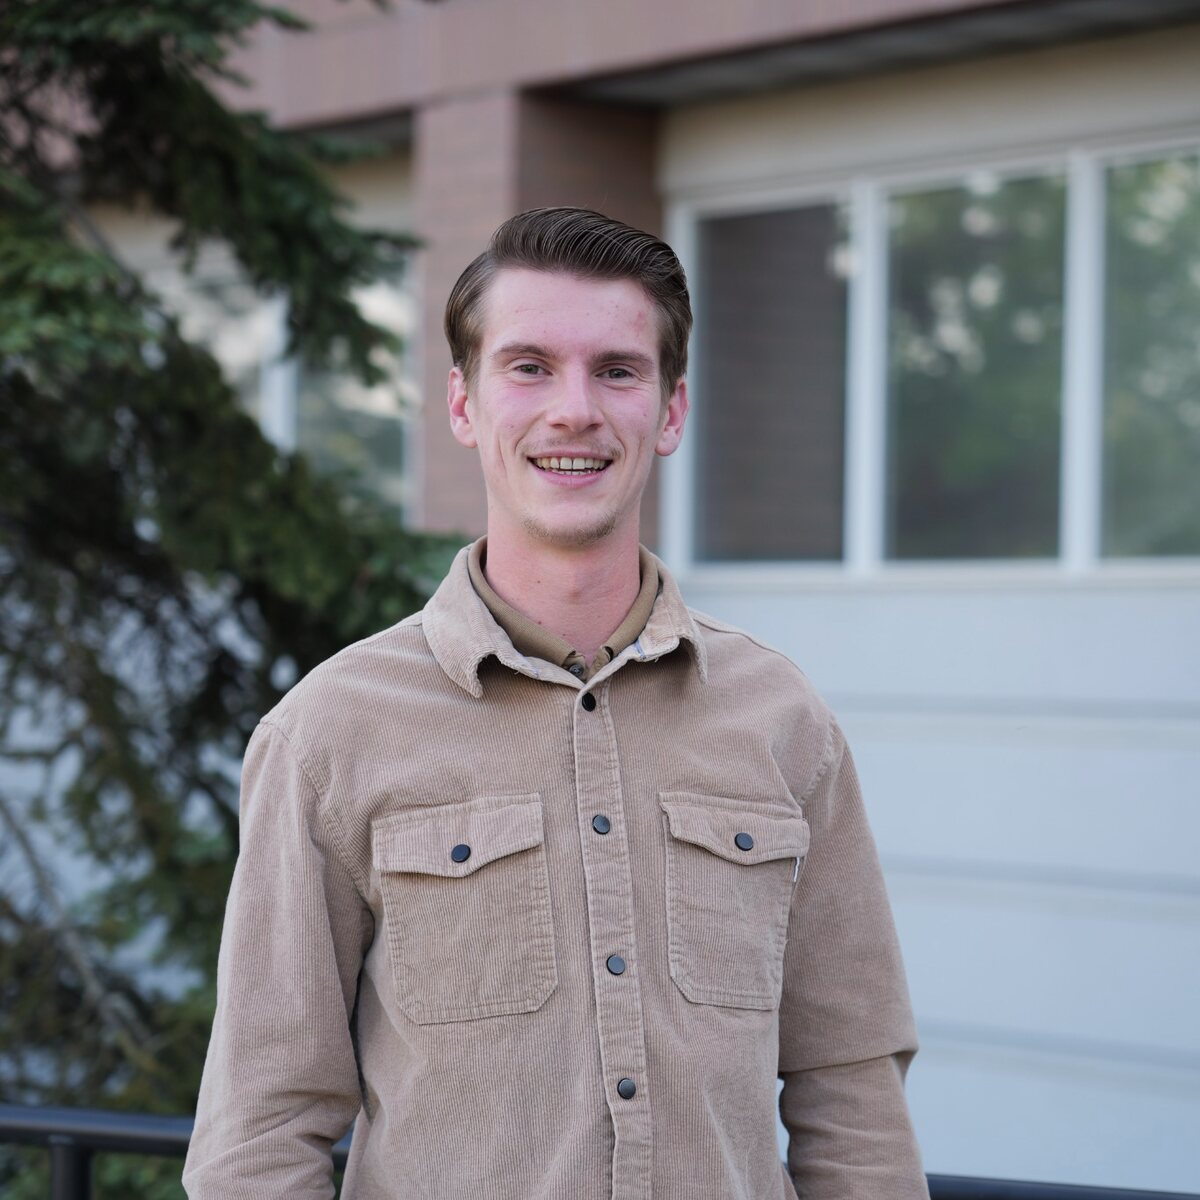
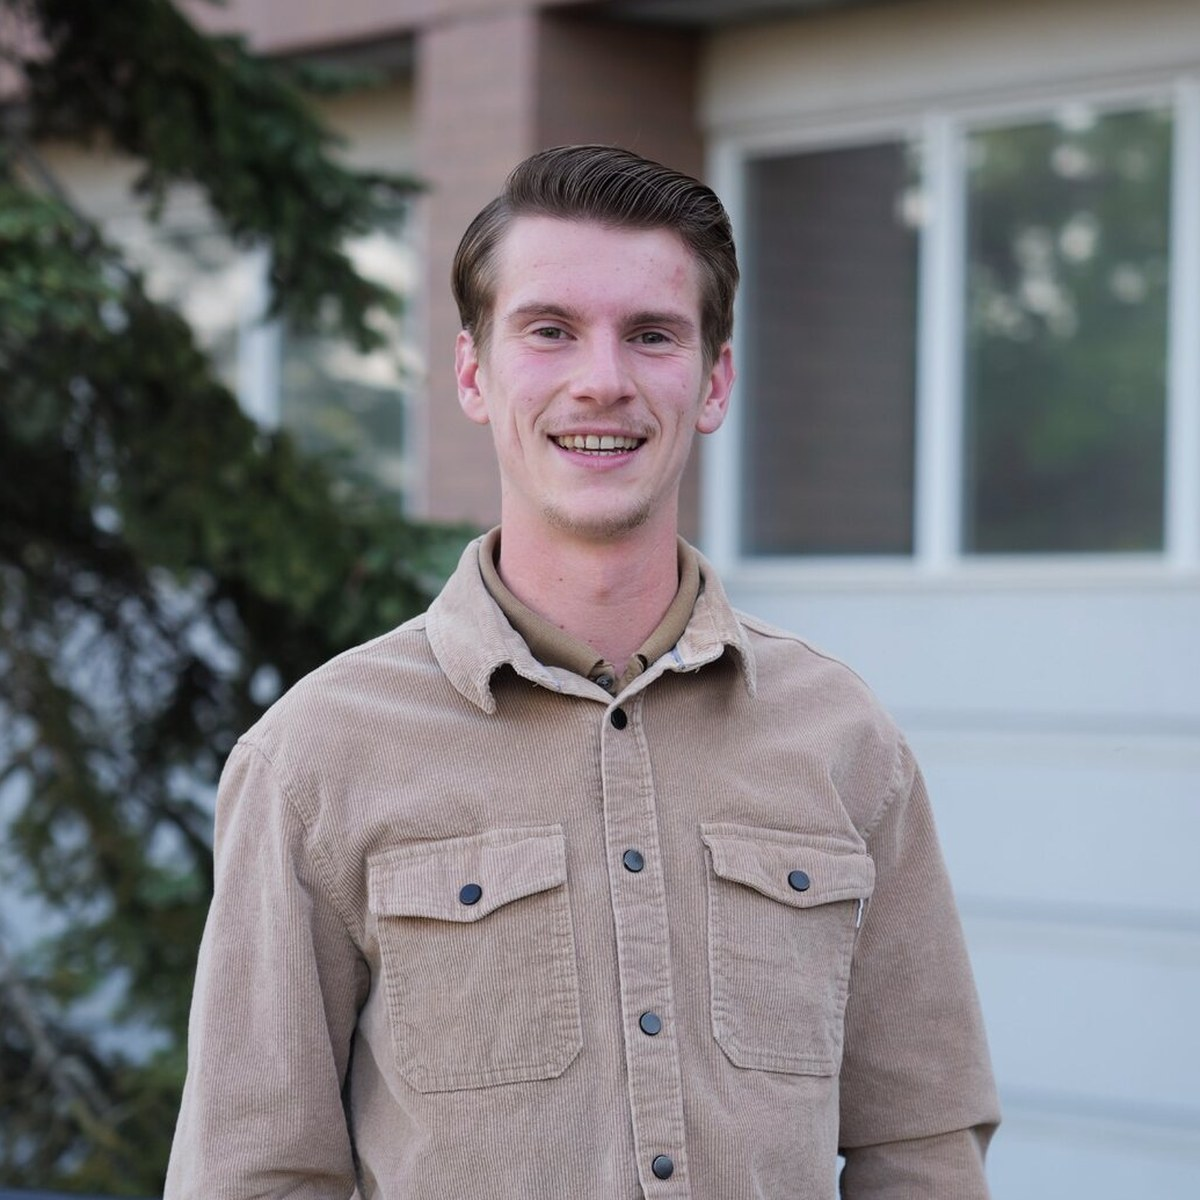
Match portrait framing: zoom Luke and Ryan so heads line up with the others
Luke's head was smaller and lower than Jordan's and Tiffany's; recropped and
scaled so head height and top edge match. Ryan's was a full-body shot, recropped
from the original at a head size matching the rest. Cache-bust both.

Claude-Session: https://claude.ai/code/session_01JHmFhQRwirUFL8NaHW2tUw

diff --git a/pages/teachers.html b/pages/teachers.html
@@ -268,7 +268,7 @@
 <p class="tp-teaches">Elementary Language Arts, Math, Science, Social Studies, P.E., Social-Emotional Learning, Arts &amp; Crafts, Field Trips &amp; Events</p>
 <span class="tp-open">See their week ↓</span></button></li><li class="tp-card" data-grades="home hs jh ms o-elem" data-search="caitlin relvas teacher english, literature, social studies, and dance. creative writing critical thinking &amp; debate dance english literature soc. studies" data-first="Caitlin"><button class="tp-face" data-who="CA"><div class="tp-portrait">
 <img src="../assets/images/teachers/caitlin-relvas.jpg?v=20260819c" alt="Caitlin Relvas" loading="lazy">
-</div><h3 class="tp-name">Caitlin Relvas</h3><p class="tp-role">Teacher</p><p class="tp-line">English, literature, social studies, and dance.</p><p class="tp-contact">Email: <a href="mailto:caitlin@rivertech.me">caitlin@rivertech.me</a></p><p class="tp-teaches">Creative Writing, Critical Thinking &amp; Debate, Dance, English, Literature, Soc. Studies</p><span class="tp-open">See their week ↓</span></button></li><li class="tp-card" data-grades="home hs jh ms o-elem y-elem" data-search="jordan ezell technology director coding, a.i., robotics, and science. a.i. &amp; machine learning chemistry coding coding / ai math personal finance &amp; family life physics robotics science year book" data-first="Jordan"><button class="tp-face" data-who="JO"><div class="tp-portrait"><img src="../assets/images/teachers/2026-27/jordan.jpg" alt="Jordan Ezell" loading="lazy"></div><h3 class="tp-name">Jordan Ezell</h3><p class="tp-role">Technology Director</p><p class="tp-line">Coding, A.I., robotics, and science.</p><p class="tp-contact">Email: <a href="mailto:jordan@rivertech.me">jordan@rivertech.me</a></p><p class="tp-teaches">A.I. &amp; Machine Learning, Chemistry, Coding, Coding / AI, Math, Personal Finance &amp; Family Life…</p><span class="tp-open">See their week ↓</span></button></li><li class="tp-card" data-grades="home hs jh ms o-elem y-elem" data-search="luke hegelund music & media instruments, filmmaking, robotics, and coding. bible coding drill english film making filmmaking math money p.e. at the park or library robotics study hall ukulele" data-first="Luke"><button class="tp-face" data-who="LU"><div class="tp-portrait"><img src="../assets/images/teachers/2026-27/luke.jpg" alt="Luke Hegelund" loading="lazy"></div><h3 class="tp-name">Luke Hegelund</h3><p class="tp-role">Music & Media</p><p class="tp-line">Instruments, filmmaking, robotics, and coding.</p><p class="tp-contact">Email: <a href="mailto:luke@rivertech.me">luke@rivertech.me</a></p><p class="tp-teaches">Bible, Coding, Drill, English, Film Making, Filmmaking…</p><span class="tp-open">See their week ↓</span></button></li><li class="tp-card" data-grades="home hs jh ms o-elem y-elem" data-search="tiffany young elementary teacher full-time elementary teacher. bible/worship/prayer english fine art fine arts free play games math math/english nutrition &amp; health p.e. at the park or library performing arts production science sketchbook pro soc. studies" data-first="Tiffany"><button class="tp-face" data-who="TI"><div class="tp-portrait"><img src="../assets/images/teachers/2026-27/tiffany.jpg" alt="Tiffany Young" loading="lazy"></div><h3 class="tp-name">Tiffany Young</h3><p class="tp-role">Elementary Teacher</p><p class="tp-line">Full-time Elementary teacher.</p><p class="tp-teaches">Bible/Worship/Prayer, English, Fine Art, Fine Arts, Free Play, Games…</p><p class="tp-contact">Email: <a href="mailto:tiffany@rivertech.me">tiffany@rivertech.me</a></p><span class="tp-open">See their week ↓</span></button></li><li class="tp-card" data-grades="home hs jh ms o-elem y-elem" data-search="charlotte tebow teacher assistant performing arts and musical direction. &#8220;aladdin&#8221; &amp; christmas concert coding digital arts drawing math performing arts production &#8220;peter &amp; alice &mdash; the way home&#8221;" data-first="Charlotte"><button class="tp-face" data-who="CH"><div class="tp-portrait tp-pending"><span>portrait coming</span></div><h3 class="tp-name">Charlotte Tebow</h3><p class="tp-role">Teacher Assistant</p><p class="tp-line">Performing arts and musical direction.</p><p class="tp-teaches">&#8220;Aladdin&#8221; &amp; Christmas Concert, Coding, Digital Arts, Drawing, Math, Performing Arts Production…</p><span class="tp-open">See their week ↓</span></button></li><li class="tp-card" data-grades="home hs jh" data-search="kirsten decker teacher fridays &mdash; english, math, geography, and bible. bible big picture geography english film making" data-first="Kirsten"><button class="tp-face" data-who="KI"><div class="tp-portrait"><img src="../assets/images/teachers/2026-27/kirsten.jpg" alt="Kirsten Decker" loading="lazy"></div><h3 class="tp-name">Kirsten Decker</h3><p class="tp-role">Teacher</p><p class="tp-line">Fridays &mdash; English, math, geography, and Bible.</p><p class="tp-teaches">Bible, Big Picture Geography, English, Film Making</p><p class="tp-contact">Email: <a href="mailto:kirsten@rivertech.me">kirsten@rivertech.me</a></p><span class="tp-open">See their week ↓</span></button></li><li class="tp-card" data-grades="home o-elem y-elem" data-search="emily allison classroom assistant math, robotics, and arts. coding crafts drawing english fine arts math nutrition &amp; health robotics" data-first="Emily"><button class="tp-face" data-who="EM"><div class="tp-portrait"><img src="../assets/images/teachers/2026-27/emily.jpg" alt="Emily Allison" loading="lazy"></div><h3 class="tp-name">Emily Allison</h3><p class="tp-role">Classroom Assistant</p><p class="tp-line">Math, robotics, and arts.</p><p class="tp-teaches">Coding, Crafts, Drawing, English, Fine Arts, Math…</p><p class="tp-contact">Email: <a href="mailto:emily@rivertech.me">emily@rivertech.me</a></p><span class="tp-open">See their week ↓</span></button></li><li class="tp-card" data-grades="hs jh" data-search="phil munts teacher python and robotics. python robotics" data-first="Phil"><button class="tp-face" data-who="PH"><div class="tp-portrait"><img src="../assets/images/teachers/phil-munts.jpg" alt="Phil Munts" loading="lazy"></div><h3 class="tp-name">Phil Munts</h3><p class="tp-role">Teacher</p><p class="tp-line">Python and robotics.</p><p class="tp-teaches">Python, Robotics</p><p class="tp-contact">Email: <a href="mailto:phil@munts.net">phil@munts.net</a></p><span class="tp-open">See their week ↓</span></button></li><li class="tp-card" data-grades="hs jh ms o-elem y-elem" data-search="cristina maness spanish spanish. spanish" data-first="Cristina"><button class="tp-face" data-who="CR"><div class="tp-portrait"><img src="../assets/images/teachers/2026-27/cris-maness.jpg?v=20260825" alt="Cristina Maness" loading="lazy"></div><h3 class="tp-name">Cristina Maness</h3><p class="tp-role">Spanish</p><p class="tp-line">Spanish.</p><p class="tp-teaches">Spanish</p><span class="tp-open">See their week ↓</span></button></li><li class="tp-card" data-grades="hs" data-search="ryan killackey filmmaking high-school filmmaking. filmmaking" data-first="Ryan"><button class="tp-face" data-who="RY"><div class="tp-portrait"><img src="../assets/images/teachers/2026-27/ryan.jpg?v=20260825" alt="Ryan Killackey" loading="lazy"></div><h3 class="tp-name">Ryan Killackey</h3><p class="tp-role">Filmmaking</p><p class="tp-line">High-school filmmaking.</p><p class="tp-teaches">Filmmaking</p><span class="tp-open">See their week ↓</span></button></li><li class="tp-card" data-grades="hs" data-search="penny burciaga operations &amp; leadership teaches leadership mindset and organizational design &amp; management. leadership mindset organizational design &amp; management" data-first="Penny"><button class="tp-face" data-who="PE"><div class="tp-portrait"><img src="../assets/images/teachers/2026-27/penny.jpg?v=20260825" alt="Penny Burciaga" loading="lazy"></div><h3 class="tp-name">Penny Burciaga</h3><p class="tp-role">Operations &amp; Leadership</p><p class="tp-line">Teaches Leadership Mindset and Organizational Design &amp; Management.</p><p class="tp-teaches">Leadership Mindset, Organizational Design &amp; Management</p><p class="tp-contact">Email: <a href="mailto:penny@rivertech.me">penny@rivertech.me</a></p><span class="tp-open">See their week ↓</span></button></li><li class="tp-card" data-grades="home" data-search="angie costumes costumes for both productions. costumes for &ldquo;aladdin&rdquo; &amp; christmas concert costumes for &ldquo;peter &amp; alice&rdquo;, talent show &amp; summer concert" data-first="Angie"><button class="tp-face" data-who="AN"><div class="tp-portrait tp-pending"><span>portrait coming</span></div><h3 class="tp-name">Angie</h3><p class="tp-role">Costumes</p><p class="tp-line">Costumes for both productions.</p><p class="tp-teaches">Costumes for &ldquo;Aladdin&rdquo; &amp; Christmas Concert, Costumes for &ldquo;Peter &amp; Alice&rdquo;, Talent Show &amp; Summer Concert</p><span class="tp-open">See their week ↓</span></button></li><li class="tp-card" data-grades="home" data-search="kara mcarthur props props for both productions. props for &ldquo;aladdin&rdquo; &amp; christmas concert props for &ldquo;peter &amp; alice&rdquo;, talent show &amp; summer concert" data-first="Kara"><button class="tp-face" data-who="KA"><div class="tp-portrait tp-pending"><span>portrait coming</span></div><h3 class="tp-name">Kara McArthur</h3><p class="tp-role">Props</p><p class="tp-line">Props for both productions.</p><p class="tp-teaches">Props for &ldquo;Aladdin&rdquo; &amp; Christmas Concert, Props for &ldquo;Peter &amp; Alice&rdquo;, Talent Show &amp; Summer Concert</p><span class="tp-open">See their week ↓</span></button></li><li class="tp-card" data-grades="" data-search="brooke donnelly executive assistant the first person you will hear back from when you write to the school." data-first="Brooke"><button class="tp-face" data-who="BR"><div class="tp-portrait"><img src="../assets/images/teachers/2026-27/brooke-donnelly.png?v=20260820" class="tp-brooke" alt="Brooke Donnelly" loading="lazy"></div><h3 class="tp-name">Brooke Donnelly</h3><p class="tp-role">Executive Assistant</p><div class="tp-line"><p>Brooke Donnelly brings a heart for people, education, organization, and movement to her role at River Tech. Her professional background spans operations, management, administration, and treasury, with experience in both the healthcare industry and public education. She has also been a homeschool educator and understands firsthand the many different ways children learn, grow, and thrive.</p><p>Outside of River Tech, Brooke is a CrossFit coach at CrossFit CDA and Wildland CrossFit and has a deep love for physical education, nutrition, and creating a lifelong relationship with movement. She lives in beautiful downtown Coeur d&rsquo;Alene with her husband, Jon, their 13-year-old son, Cason, and their newest little addition, Andrew. Together, they love the outdoors, sports, music and the arts, baking, and an active life in North Idaho.</p><p>Most importantly, Brooke loves Jesus and strives to keep her faith at the center of her family, work, and the way she serves others. She wholeheartedly supports River Tech&rsquo;s mission and is incredibly grateful for the opportunity to be part of a school community where faith, creativity, education, and preparing children for the future come together.</p><p><em>&ldquo;I can do all things through Christ who strengthens me.&rdquo; &mdash; Philippians 4:13</em></p></div><p class="tp-contact">Email: <a href="mailto:brooke@rivertech.me">brooke@rivertech.me</a></p></button></li></ul>
+</div><h3 class="tp-name">Caitlin Relvas</h3><p class="tp-role">Teacher</p><p class="tp-line">English, literature, social studies, and dance.</p><p class="tp-contact">Email: <a href="mailto:caitlin@rivertech.me">caitlin@rivertech.me</a></p><p class="tp-teaches">Creative Writing, Critical Thinking &amp; Debate, Dance, English, Literature, Soc. Studies</p><span class="tp-open">See their week ↓</span></button></li><li class="tp-card" data-grades="home hs jh ms o-elem y-elem" data-search="jordan ezell technology director coding, a.i., robotics, and science. a.i. &amp; machine learning chemistry coding coding / ai math personal finance &amp; family life physics robotics science year book" data-first="Jordan"><button class="tp-face" data-who="JO"><div class="tp-portrait"><img src="../assets/images/teachers/2026-27/jordan.jpg" alt="Jordan Ezell" loading="lazy"></div><h3 class="tp-name">Jordan Ezell</h3><p class="tp-role">Technology Director</p><p class="tp-line">Coding, A.I., robotics, and science.</p><p class="tp-contact">Email: <a href="mailto:jordan@rivertech.me">jordan@rivertech.me</a></p><p class="tp-teaches">A.I. &amp; Machine Learning, Chemistry, Coding, Coding / AI, Math, Personal Finance &amp; Family Life…</p><span class="tp-open">See their week ↓</span></button></li><li class="tp-card" data-grades="home hs jh ms o-elem y-elem" data-search="luke hegelund music & media instruments, filmmaking, robotics, and coding. bible coding drill english film making filmmaking math money p.e. at the park or library robotics study hall ukulele" data-first="Luke"><button class="tp-face" data-who="LU"><div class="tp-portrait"><img src="../assets/images/teachers/2026-27/luke.jpg?v=20260825b" alt="Luke Hegelund" loading="lazy"></div><h3 class="tp-name">Luke Hegelund</h3><p class="tp-role">Music & Media</p><p class="tp-line">Instruments, filmmaking, robotics, and coding.</p><p class="tp-contact">Email: <a href="mailto:luke@rivertech.me">luke@rivertech.me</a></p><p class="tp-teaches">Bible, Coding, Drill, English, Film Making, Filmmaking…</p><span class="tp-open">See their week ↓</span></button></li><li class="tp-card" data-grades="home hs jh ms o-elem y-elem" data-search="tiffany young elementary teacher full-time elementary teacher. bible/worship/prayer english fine art fine arts free play games math math/english nutrition &amp; health p.e. at the park or library performing arts production science sketchbook pro soc. studies" data-first="Tiffany"><button class="tp-face" data-who="TI"><div class="tp-portrait"><img src="../assets/images/teachers/2026-27/tiffany.jpg" alt="Tiffany Young" loading="lazy"></div><h3 class="tp-name">Tiffany Young</h3><p class="tp-role">Elementary Teacher</p><p class="tp-line">Full-time Elementary teacher.</p><p class="tp-teaches">Bible/Worship/Prayer, English, Fine Art, Fine Arts, Free Play, Games…</p><p class="tp-contact">Email: <a href="mailto:tiffany@rivertech.me">tiffany@rivertech.me</a></p><span class="tp-open">See their week ↓</span></button></li><li class="tp-card" data-grades="home hs jh ms o-elem y-elem" data-search="charlotte tebow teacher assistant performing arts and musical direction. &#8220;aladdin&#8221; &amp; christmas concert coding digital arts drawing math performing arts production &#8220;peter &amp; alice &mdash; the way home&#8221;" data-first="Charlotte"><button class="tp-face" data-who="CH"><div class="tp-portrait tp-pending"><span>portrait coming</span></div><h3 class="tp-name">Charlotte Tebow</h3><p class="tp-role">Teacher Assistant</p><p class="tp-line">Performing arts and musical direction.</p><p class="tp-teaches">&#8220;Aladdin&#8221; &amp; Christmas Concert, Coding, Digital Arts, Drawing, Math, Performing Arts Production…</p><span class="tp-open">See their week ↓</span></button></li><li class="tp-card" data-grades="home hs jh" data-search="kirsten decker teacher fridays &mdash; english, math, geography, and bible. bible big picture geography english film making" data-first="Kirsten"><button class="tp-face" data-who="KI"><div class="tp-portrait"><img src="../assets/images/teachers/2026-27/kirsten.jpg" alt="Kirsten Decker" loading="lazy"></div><h3 class="tp-name">Kirsten Decker</h3><p class="tp-role">Teacher</p><p class="tp-line">Fridays &mdash; English, math, geography, and Bible.</p><p class="tp-teaches">Bible, Big Picture Geography, English, Film Making</p><p class="tp-contact">Email: <a href="mailto:kirsten@rivertech.me">kirsten@rivertech.me</a></p><span class="tp-open">See their week ↓</span></button></li><li class="tp-card" data-grades="home o-elem y-elem" data-search="emily allison classroom assistant math, robotics, and arts. coding crafts drawing english fine arts math nutrition &amp; health robotics" data-first="Emily"><button class="tp-face" data-who="EM"><div class="tp-portrait"><img src="../assets/images/teachers/2026-27/emily.jpg" alt="Emily Allison" loading="lazy"></div><h3 class="tp-name">Emily Allison</h3><p class="tp-role">Classroom Assistant</p><p class="tp-line">Math, robotics, and arts.</p><p class="tp-teaches">Coding, Crafts, Drawing, English, Fine Arts, Math…</p><p class="tp-contact">Email: <a href="mailto:emily@rivertech.me">emily@rivertech.me</a></p><span class="tp-open">See their week ↓</span></button></li><li class="tp-card" data-grades="hs jh" data-search="phil munts teacher python and robotics. python robotics" data-first="Phil"><button class="tp-face" data-who="PH"><div class="tp-portrait"><img src="../assets/images/teachers/phil-munts.jpg" alt="Phil Munts" loading="lazy"></div><h3 class="tp-name">Phil Munts</h3><p class="tp-role">Teacher</p><p class="tp-line">Python and robotics.</p><p class="tp-teaches">Python, Robotics</p><p class="tp-contact">Email: <a href="mailto:phil@munts.net">phil@munts.net</a></p><span class="tp-open">See their week ↓</span></button></li><li class="tp-card" data-grades="hs jh ms o-elem y-elem" data-search="cristina maness spanish spanish. spanish" data-first="Cristina"><button class="tp-face" data-who="CR"><div class="tp-portrait"><img src="../assets/images/teachers/2026-27/cris-maness.jpg?v=20260825" alt="Cristina Maness" loading="lazy"></div><h3 class="tp-name">Cristina Maness</h3><p class="tp-role">Spanish</p><p class="tp-line">Spanish.</p><p class="tp-teaches">Spanish</p><span class="tp-open">See their week ↓</span></button></li><li class="tp-card" data-grades="hs" data-search="ryan killackey filmmaking high-school filmmaking. filmmaking" data-first="Ryan"><button class="tp-face" data-who="RY"><div class="tp-portrait"><img src="../assets/images/teachers/2026-27/ryan.jpg?v=20260825b" alt="Ryan Killackey" loading="lazy"></div><h3 class="tp-name">Ryan Killackey</h3><p class="tp-role">Filmmaking</p><p class="tp-line">High-school filmmaking.</p><p class="tp-teaches">Filmmaking</p><span class="tp-open">See their week ↓</span></button></li><li class="tp-card" data-grades="hs" data-search="penny burciaga operations &amp; leadership teaches leadership mindset and organizational design &amp; management. leadership mindset organizational design &amp; management" data-first="Penny"><button class="tp-face" data-who="PE"><div class="tp-portrait"><img src="../assets/images/teachers/2026-27/penny.jpg?v=20260825" alt="Penny Burciaga" loading="lazy"></div><h3 class="tp-name">Penny Burciaga</h3><p class="tp-role">Operations &amp; Leadership</p><p class="tp-line">Teaches Leadership Mindset and Organizational Design &amp; Management.</p><p class="tp-teaches">Leadership Mindset, Organizational Design &amp; Management</p><p class="tp-contact">Email: <a href="mailto:penny@rivertech.me">penny@rivertech.me</a></p><span class="tp-open">See their week ↓</span></button></li><li class="tp-card" data-grades="home" data-search="angie costumes costumes for both productions. costumes for &ldquo;aladdin&rdquo; &amp; christmas concert costumes for &ldquo;peter &amp; alice&rdquo;, talent show &amp; summer concert" data-first="Angie"><button class="tp-face" data-who="AN"><div class="tp-portrait tp-pending"><span>portrait coming</span></div><h3 class="tp-name">Angie</h3><p class="tp-role">Costumes</p><p class="tp-line">Costumes for both productions.</p><p class="tp-teaches">Costumes for &ldquo;Aladdin&rdquo; &amp; Christmas Concert, Costumes for &ldquo;Peter &amp; Alice&rdquo;, Talent Show &amp; Summer Concert</p><span class="tp-open">See their week ↓</span></button></li><li class="tp-card" data-grades="home" data-search="kara mcarthur props props for both productions. props for &ldquo;aladdin&rdquo; &amp; christmas concert props for &ldquo;peter &amp; alice&rdquo;, talent show &amp; summer concert" data-first="Kara"><button class="tp-face" data-who="KA"><div class="tp-portrait tp-pending"><span>portrait coming</span></div><h3 class="tp-name">Kara McArthur</h3><p class="tp-role">Props</p><p class="tp-line">Props for both productions.</p><p class="tp-teaches">Props for &ldquo;Aladdin&rdquo; &amp; Christmas Concert, Props for &ldquo;Peter &amp; Alice&rdquo;, Talent Show &amp; Summer Concert</p><span class="tp-open">See their week ↓</span></button></li><li class="tp-card" data-grades="" data-search="brooke donnelly executive assistant the first person you will hear back from when you write to the school." data-first="Brooke"><button class="tp-face" data-who="BR"><div class="tp-portrait"><img src="../assets/images/teachers/2026-27/brooke-donnelly.png?v=20260820" class="tp-brooke" alt="Brooke Donnelly" loading="lazy"></div><h3 class="tp-name">Brooke Donnelly</h3><p class="tp-role">Executive Assistant</p><div class="tp-line"><p>Brooke Donnelly brings a heart for people, education, organization, and movement to her role at River Tech. Her professional background spans operations, management, administration, and treasury, with experience in both the healthcare industry and public education. She has also been a homeschool educator and understands firsthand the many different ways children learn, grow, and thrive.</p><p>Outside of River Tech, Brooke is a CrossFit coach at CrossFit CDA and Wildland CrossFit and has a deep love for physical education, nutrition, and creating a lifelong relationship with movement. She lives in beautiful downtown Coeur d&rsquo;Alene with her husband, Jon, their 13-year-old son, Cason, and their newest little addition, Andrew. Together, they love the outdoors, sports, music and the arts, baking, and an active life in North Idaho.</p><p>Most importantly, Brooke loves Jesus and strives to keep her faith at the center of her family, work, and the way she serves others. She wholeheartedly supports River Tech&rsquo;s mission and is incredibly grateful for the opportunity to be part of a school community where faith, creativity, education, and preparing children for the future come together.</p><p><em>&ldquo;I can do all things through Christ who strengthens me.&rdquo; &mdash; Philippians 4:13</em></p></div><p class="tp-contact">Email: <a href="mailto:brooke@rivertech.me">brooke@rivertech.me</a></p></button></li></ul>
     <p class="tp-empty" id="tp-empty" hidden>No one matches that just yet. Clear the filters and try another word.</p>
 
     <h2 class="tp-h2">About our teachers &amp; their week</h2>
